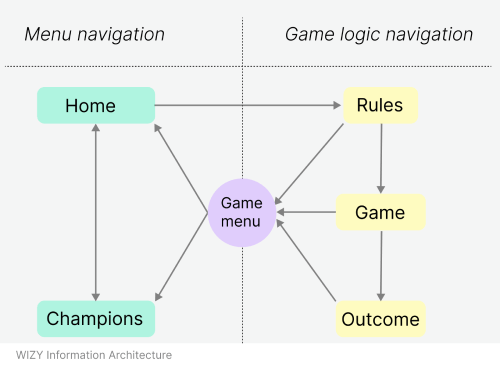
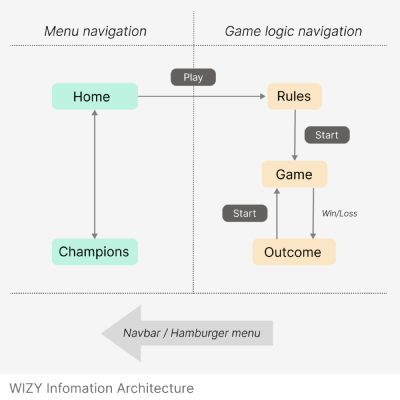
Update Project UI Structure and Infomation Architecture section in README

diff --git a/README.md b/README.md
@@ -459,7 +459,10 @@ The WIZY web application is organized to ensure a seamless user experience, intu
 
 <img src="assets/images/readme/information_architecture.png" alt="information architecture image"/><br >
 
-The structure includes the following main UI components:
+Users can transition from the left side of the diagram to the right side by clicking the **Play** button.
+Click the **Start** button to go to the `Game` page from the `Rules` page. The `Outcome` page displays a player's results regardless of the game's result. By clicking the **Start** button on the `Outcome` page, they can return to the `Game` page. Using the links in the menu, players can always navigate from the right side to the left side of the diagram.
+
+The WIZY UI structure includes the following main UI components:
 
 - **Home Page**: The landing page where users are welcomed and can enter their name to start the game.
 - **Rules Page**: Provides game instructions and allows users to select the difficulty level.
@@ -496,7 +499,7 @@ The WIZY project architecture is organized into three levels:
 
 <img src="./assets/images/readme/architecture_project.webp" alt="project architecture image" width="900">
 
-**MAIN LEVEL (1 LEVEL)**: This level consists of the main.js file, which serves as a router to dynamically load the right content based on the page URL. When the page is fully loaded, it checks the URL and calls the specific function for the landing, rules, game, outcome, or champions page. If something goes wrong, it redirects to a custom error page.
+**MAIN LEVEL (1 LEVEL)**: This level consists of the `main.js` file, which serves as a router to dynamically load the right content based on the page URL. When the page is fully loaded, it checks the URL and calls the specific function for the landing, rules, game, outcome, or champions page. If something goes wrong, it redirects to a custom error page.
 
 > [!NOTE]
 > Use `if...else if` instead of `switch...case` to avoid creating additional functions for parsing URLs.
